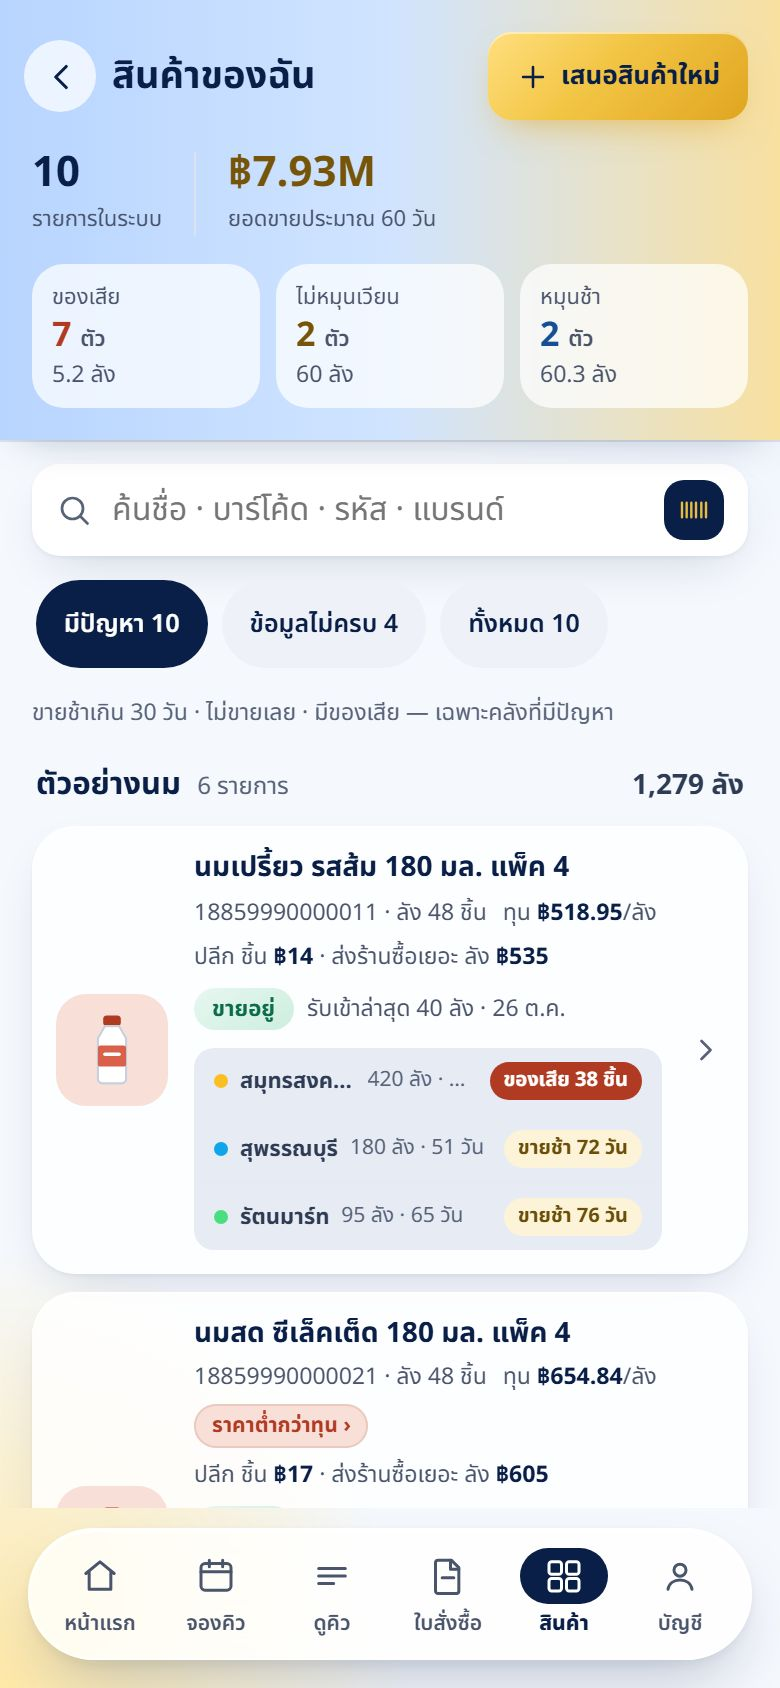
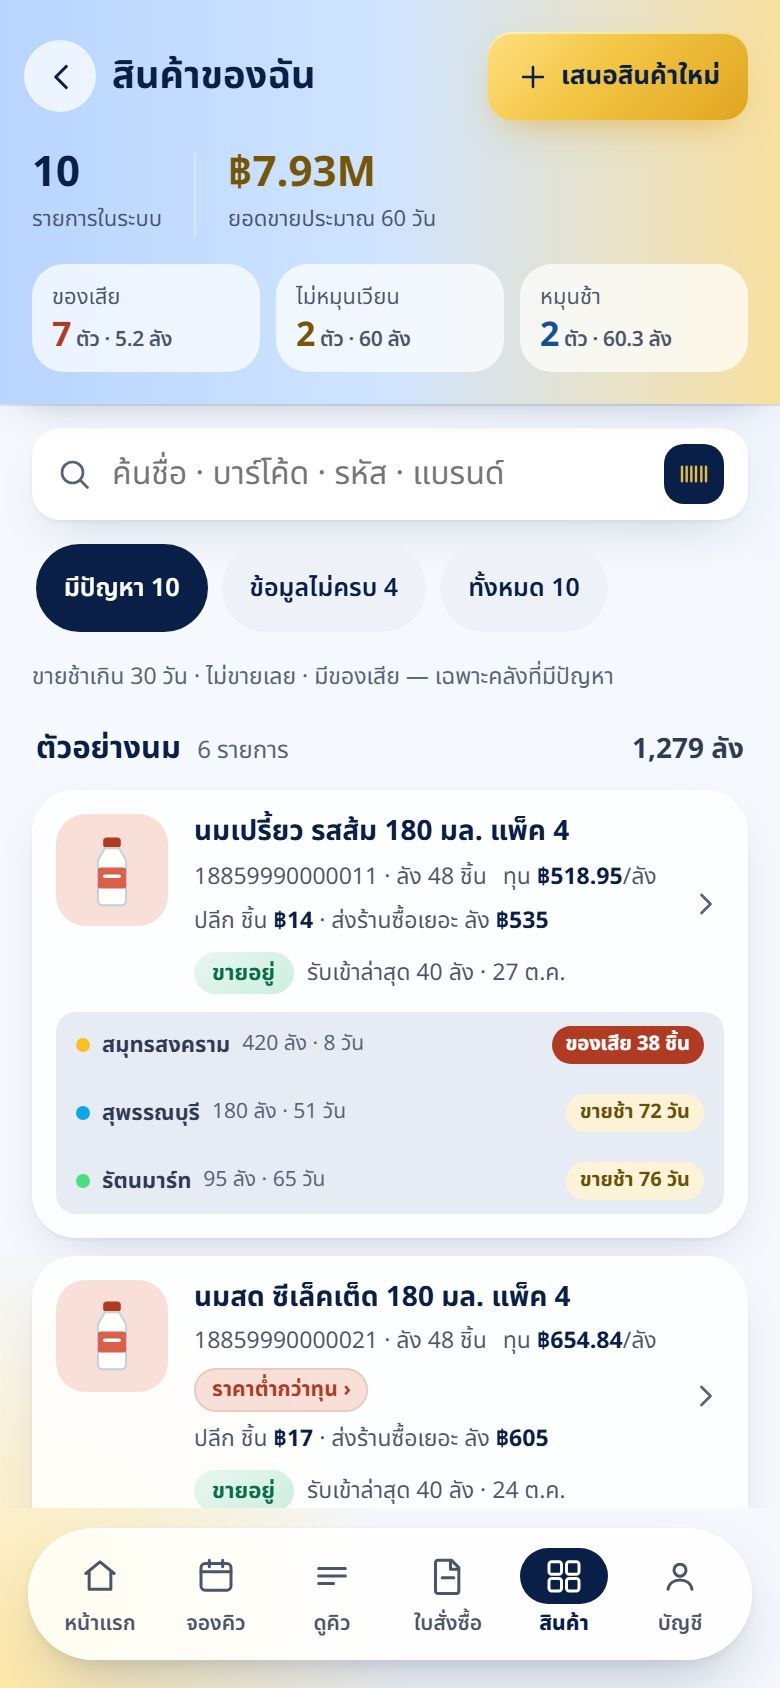
supplylink-guide v1.5.0: บทใหม่ ซัพใหม่เปิดบัญชี + แบบฝึกหัด · รูปบาร์โค้ดถ่ายจากกล้อง/ส่งภายหลัง · การ์ดสินค้าแบบใหม่

Changed region(s): [[0.0, 0.1848, 1.0, 0.8934], [0.8, 0.4313, 0.9538, 0.4929], [0.0615, 0.8626, 0.2154, 0.8934]]

diff --git a/supplylink-guide.html b/supplylink-guide.html
@@ -3,7 +3,7 @@
 <head>
 <meta charset="utf-8">
 <meta name="viewport" content="width=device-width,initial-scale=1,viewport-fit=cover">
-<title>ฝึกใช้ SupplyLink v1.4.5</title>
+<title>ฝึกใช้ SupplyLink v1.5.0</title>
 <link rel="preconnect" href="https://fonts.googleapis.com">
 <link href="https://fonts.googleapis.com/css2?family=Noto+Sans+Thai:wght@400;500;600;700&display=swap" rel="stylesheet">
 <style>
@@ -138,8 +138,8 @@ button{font:inherit;cursor:pointer}
 
 <script>
 (function () {
-  var VER = 'v1.4.5', APP = 'https://liff.line.me/2011693023-xbdsN1K7';
-  var IMG = {"h0":"supplylink-guide/h0.jpg","hinc":"supplylink-guide/hinc.jpg","hdef":"supplylink-guide/hdef.jpg","hpo":"supplylink-guide/hpo.jpg","s2":"supplylink-guide/s2.jpg","s4":"supplylink-guide/s4.jpg","s5":"supplylink-guide/s5.jpg","s6":"supplylink-guide/s6.jpg","s7":"supplylink-guide/s7.jpg","s9":"supplylink-guide/s9.jpg","s10":"supplylink-guide/s10.jpg","s11":"supplylink-guide/s11.jpg","z1":"supplylink-guide/z1.jpg","zm":"supplylink-guide/zm.jpg","zt":"supplylink-guide/zt.jpg","zs":"supplylink-guide/zs.jpg","zi":"supplylink-guide/zi.jpg","q1":"supplylink-guide/q1.jpg","q2":"supplylink-guide/q2.jpg","q3":"supplylink-guide/q3.jpg","q4":"supplylink-guide/q4.jpg","q5":"supplylink-guide/q5.jpg","q6":"supplylink-guide/q6.jpg","q7":"supplylink-guide/q7.jpg","q8":"supplylink-guide/q8.jpg","x1":"supplylink-guide/x1.jpg","x2":"supplylink-guide/x2.jpg","x3":"supplylink-guide/x3.jpg","x4":"supplylink-guide/x4.jpg","x5":"supplylink-guide/x5.jpg","x6":"supplylink-guide/x6.jpg","x7":"supplylink-guide/x7.jpg","a2":"supplylink-guide/a2.jpg","a3":"supplylink-guide/a3.jpg","a5":"supplylink-guide/a5.jpg","d2":"supplylink-guide/d2.jpg","a4":"supplylink-guide/a4.jpg","d3":"supplylink-guide/d3.jpg","d4":"supplylink-guide/d4.jpg","p1":"supplylink-guide/p1.jpg","p1b":"supplylink-guide/p1b.jpg","b2":"supplylink-guide/b2.jpg","b3":"supplylink-guide/b3.jpg","p5":"supplylink-guide/p5.jpg","c2":"supplylink-guide/c2.jpg","c3":"supplylink-guide/c3.jpg","k1":"supplylink-guide/k1.jpg","k2":"supplylink-guide/k2.jpg","k3":"supplylink-guide/k3.jpg","k4":"supplylink-guide/k4.jpg","k5":"supplylink-guide/k5.jpg","k6":"supplylink-guide/k6.jpg","k7":"supplylink-guide/k7.jpg","k9":"supplylink-guide/k9.jpg","k10":"supplylink-guide/k10.jpg","k11":"supplylink-guide/k11.jpg","n1":"supplylink-guide/n1.jpg","n2":"supplylink-guide/n2.jpg","n3":"supplylink-guide/n3.jpg","n4":"supplylink-guide/n4.jpg","n5":"supplylink-guide/n5.jpg","n6":"supplylink-guide/n6.jpg","n7":"supplylink-guide/n7.jpg","n8":"supplylink-guide/n8.jpg","n9":"supplylink-guide/n9.jpg","m1":"supplylink-guide/m1.jpg","m2":"supplylink-guide/m2.jpg","m3":"supplylink-guide/m3.jpg","m4":"supplylink-guide/m4.jpg","m5":"supplylink-guide/m5.jpg","f1":"supplylink-guide/f1.jpg","f2":"supplylink-guide/f2.jpg","f3":"supplylink-guide/f3.jpg","f4":"supplylink-guide/f4.jpg"};                                       /* แทนด้วยรูปตอน build */
+  var VER = 'v1.5.0', APP = 'https://liff.line.me/2011693023-xbdsN1K7';
+  var IMG = {"h0":"supplylink-guide/h0.jpg","hinc":"supplylink-guide/hinc.jpg","hdef":"supplylink-guide/hdef.jpg","hpo":"supplylink-guide/hpo.jpg","s2":"supplylink-guide/s2.jpg","s4":"supplylink-guide/s4.jpg","s5":"supplylink-guide/s5.jpg","s6":"supplylink-guide/s6.jpg","s7":"supplylink-guide/s7.jpg","s9":"supplylink-guide/s9.jpg","s10":"supplylink-guide/s10.jpg","s11":"supplylink-guide/s11.jpg","z1":"supplylink-guide/z1.jpg","zm":"supplylink-guide/zm.jpg","zt":"supplylink-guide/zt.jpg","zs":"supplylink-guide/zs.jpg","zi":"supplylink-guide/zi.jpg","q1":"supplylink-guide/q1.jpg","q2":"supplylink-guide/q2.jpg","q3":"supplylink-guide/q3.jpg","q4":"supplylink-guide/q4.jpg","q5":"supplylink-guide/q5.jpg","q6":"supplylink-guide/q6.jpg","q7":"supplylink-guide/q7.jpg","q8":"supplylink-guide/q8.jpg","x1":"supplylink-guide/x1.jpg","x2":"supplylink-guide/x2.jpg","x3":"supplylink-guide/x3.jpg","x4":"supplylink-guide/x4.jpg","x5":"supplylink-guide/x5.jpg","x6":"supplylink-guide/x6.jpg","x7":"supplylink-guide/x7.jpg","a2":"supplylink-guide/a2.jpg","a3":"supplylink-guide/a3.jpg","a5":"supplylink-guide/a5.jpg","d2":"supplylink-guide/d2.jpg","a4":"supplylink-guide/a4.jpg","d3":"supplylink-guide/d3.jpg","d4":"supplylink-guide/d4.jpg","p1":"supplylink-guide/p1.jpg","p1b":"supplylink-guide/p1b.jpg","b2":"supplylink-guide/b2.jpg","b3":"supplylink-guide/b3.jpg","p5":"supplylink-guide/p5.jpg","c2":"supplylink-guide/c2.jpg","c3":"supplylink-guide/c3.jpg","k1":"supplylink-guide/k1.jpg","k2":"supplylink-guide/k2.jpg","k3":"supplylink-guide/k3.jpg","k4":"supplylink-guide/k4.jpg","k5":"supplylink-guide/k5.jpg","k6":"supplylink-guide/k6.jpg","k7":"supplylink-guide/k7.jpg","k9":"supplylink-guide/k9.jpg","k10":"supplylink-guide/k10.jpg","k11":"supplylink-guide/k11.jpg","n1":"supplylink-guide/n1.jpg","n2":"supplylink-guide/n2.jpg","n3":"supplylink-guide/n3.jpg","n4":"supplylink-guide/n4.jpg","n5":"supplylink-guide/n5.jpg","n6":"supplylink-guide/n6.jpg","n7":"supplylink-guide/n7.jpg","n8":"supplylink-guide/n8.jpg","n9":"supplylink-guide/n9.jpg","g1":"supplylink-guide/g1.jpg","g2":"supplylink-guide/g2.jpg","g3":"supplylink-guide/g3.jpg","g4":"supplylink-guide/g4.jpg","m1":"supplylink-guide/m1.jpg","m2":"supplylink-guide/m2.jpg","m3":"supplylink-guide/m3.jpg","m4":"supplylink-guide/m4.jpg","m5":"supplylink-guide/m5.jpg","f1":"supplylink-guide/f1.jpg","f2":"supplylink-guide/f2.jpg","f3":"supplylink-guide/f3.jpg","f4":"supplylink-guide/f4.jpg"};                                       /* แทนด้วยรูปตอน build */
   var HAND = '<svg class="hand" viewBox="0 0 48 48" aria-hidden="true"><path d="M19 6c2 0 3.5 1.6 3.5 3.6V22l1-.1V18c0-2 1.6-3.4 3.4-3.4S30.3 16 30.3 18v4.4l1-.1v-2.6c0-1.9 1.5-3.3 3.3-3.3s3.3 1.5 3.3 3.3v3.6l.8-.1c1.8 0 3.3 1.5 3.3 3.3V34c0 6.6-5.4 12-12 12h-3.4c-3.8 0-7.4-1.8-9.6-4.9L8.5 30.6c-1-1.4-.7-3.4.7-4.4 1.4-1 3.3-.8 4.4.5l2 2.4V9.6C15.6 7.6 17.1 6 19 6z" fill="#fff" stroke="#0A1F47" stroke-width="2.4" stroke-linejoin="round"/></svg>';
   var FLOWCARD = function () {                              /* ส่งแล้วเกิดอะไรขึ้น: ซัพตอบ → จัดซื้อยืนยัน → เปิด PO จริง */
     var box = function (n, h, d, tone) { return '<div style="display:flex;gap:3cqw;align-items:flex-start;background:' + (tone || '#fff') + ';border-radius:4cqw;padding:3.6cqw 4cqw">' +
@@ -159,6 +159,15 @@ button{font:inherit;cursor:pointer}
   };
   /* ตำแหน่ง (x,y,w,h) = พิกัดบนจอมือถือกว้าง 390 จากหน้าแอปจริง */
   var LESSONS = [
+    { k:'open', t:'ซัพใหม่ เปิดบัญชี + เข้าใช้', g:'เปิดบัญชี (ซัพใหม่)', s:'ครั้งแรกที่เปิดแอป', n:7, steps:[
+      { img:'g1', r:[37, 192, 316, 66], h:'เปิดแอปครั้งแรก', d:'ยังไม่มีรหัสคู่ค้า แอปขึ้นฟอร์มเปิดบัญชีให้เอง · ใส่ชื่อบริษัทตามหนังสือรับรอง' },
+      { img:'g1', r:[37, 342, 316, 66], h:'เบอร์โทร', d:'ตัวเลขล้วน ขึ้นต้น 0 ไม่ต้องมีขีดหรือเว้นวรรค (พิมพ์มาแอปตัดให้เอง)', fx:'type', fxt:'0897654321' },
+      { img:'g2', r:[176, 503, 164, 44], h:'ใช่บริษัทของคุณไหม', d:'เบอร์ตรงกับบริษัทในระบบรัตน แอปถามให้ยืนยัน แตะ "ใช่ บริษัทนี้" ชื่อบริษัทเติมให้' },
+      { img:'g3', r:[285, 469, 56, 44], h:'แนบเอกสาร 3 อย่าง', d:'ภ.พ.20 · หนังสือรับรองบริษัท · หน้าบัญชีธนาคาร ถ่ายรูปหรือเลือก PDF' },
+      { img:'g3', r:[37, 601, 316, 44], h:'รับทราบนโยบาย', d:'ติ๊กครั้งเดียว อนุมัติแล้วเข้าแอปได้เลย ไม่ต้องกดซ้ำ' },
+      { img:'g3', r:[24, 698, 342, 52], h:'ส่งคำขอเปิดบัญชี', d:'ชื่อ LINE และรหัส LINE แอปเก็บให้เอง ไม่ต้องกรอก' },
+      { img:'g4', r:[24, 529, 342, 52], h:'รอจัดซื้ออนุมัติ', d:'อนุมัติแล้วได้ข้อความใน LINE ทันที · กดตรวจสอบอีกครั้ง หรือเปิดแอปใหม่ ก็เข้าได้เลย' }
+    ], end:'ไม่ผ่าน = ได้เหตุผลใน LINE แก้แล้วส่งคำขอใหม่ในแอป · ห้ามส่ง LINE ID ให้จัดซื้อพิมพ์เอง (เข้าไม่ได้)' },
     { k:'draft', t:'ใบร่างสั่งซื้อ ก่อนเปิด PO', g:'ใบร่างสั่งซื้อ', s:'ราคา โปร ขาดทุน', n:11, steps:[
       { html:function () { return LINECARD('ใบร่างสั่งซื้อ รอคุณตรวจ', 'ใบร่าง DR6911-012', [['บริษัท', 'บริษัท ตัวอย่าง จำกัด'], ['ส่งที่', 'คลังสุพรรณบุรี'], ['วันส่งที่ขอ', 'ให้คุณเสนอ'], ['สินค้า', '2 รายการ'], ['ช่วยตรวจ', 'จำนวนที่ส่งได้ · ราคา · ของแถม ก่อนเปิด PO']], ['ยอดตามแผน · ก่อน VAT', '฿49,840.00'], 'เปิดตรวจในแอป'); }, el:'lbtn',
         h:'ได้การ์ด LINE', d:'ฝ่ายจัดซื้อส่งใบร่างมาให้ตรวจ แตะ "เปิดตรวจในแอป"' },
@@ -246,7 +255,7 @@ button{font:inherit;cursor:pointer}
       { img:'n2', r:[30, 212, 330, 105], h:'ใส่รูปสินค้า 3 รูป', d:'ด้านหน้า ด้านข้าง และฉลาก ถ่ายจากมือถือได้เลย' },
       { img:'n3', r:[30, 349, 330, 44], h:'ชื่อสินค้า แบรนด์ ขนาด', d:'ใส่ชื่อให้ครบ เช่น นมเปรี้ยว รสบลูเบอร์รี่ 180 มล.', fx:'type', fxt:'นมเปรี้ยว 180 มล.' },
       { img:'n4', r:[274, 381, 86, 30], h:'บาร์โค้ดทุกหน่วย', d:'ใช้บาร์โค้ดจากสินค้าจริง ชิ้น · แพ็ค · ลัง กดสแกนที่ตัวสินค้าได้เลย ไม่ต้องพิมพ์เอง' },
-      { img:'n8', r:[30, 343, 330, 105], h:'รูปบาร์โค้ดจากสินค้าจริง', d:'ถ่ายตัวสินค้าให้เห็นบาร์โค้ดชัด ชิ้น · แพ็ค · ลัง จัดซื้อใช้ตรวจว่าเลขตรงกับที่กรอก' },
+      { img:'n8', r:[30, 326, 330, 139], h:'รูปบาร์โค้ดจากสินค้าจริง', d:'เปิดกล้องถ่ายตัวสินค้าจริงให้เห็นบาร์โค้ดชัด ชิ้น · แพ็ค · ลัง (ใช้รูปเก่าในเครื่องไม่ได้) · ยังถ่ายไม่ได้ กด "ส่งภายหลัง"' },
       { img:'n5', r:[30, 374, 160, 44], h:'ราคาทุนและราคาแนะนำ', d:'ราคาทุนต่อลัง (รวม VAT) และราคาแนะนำขายต่อชิ้น', fx:'type', fxt:'485.00' },
       { img:'n9', r:[30, 363, 330, 66], h:'เงื่อนไขการเคลม', d:'รับเคลมของหมดอายุ / แตกเสียหายไหม แล้วพิมพ์ว่าเคลมแบบไหน เช่น แจ้งภายในกี่วัน เปลี่ยนสินค้าหรือออก CN' },
       { img:'n6', r:[31, 410, 328, 126], h:'เซ็นชื่อ', d:'ใส่ชื่อ-นามสกุล แล้วเซ็นในกรอบ', fx:'sig' },
@@ -260,6 +269,17 @@ button{font:inherit;cursor:pointer}
     traps:Object.keys(NAV).filter(function (k) { return k !== target; }).map(function (k) { return { r:NAV[k], why:NAVWHY[k] }; }) }; }
   var TR = { rp:[98, 387, 75, 36], all:[18, 387, 73, 36], send:[272, 776, 96, 46], sig:[31, 510, 328, 126], ld:[30, 126, 78, 44], by:[114, 126, 78, 44], ac:[198, 126, 78, 44], df:[282, 126, 78, 44] };
   var QUIZ = {
+    open:[
+      { q:'จัดซื้อขอ LINE ID ของคุณไปใส่เอง จะเข้าแอปได้ไหม?', opts:[
+        { t:'ไม่ได้ ต้องเปิดแอปแล้วส่งคำขอเปิดบัญชีเอง', ok:1, why:'แอปเก็บรหัส LINE ที่ถูกให้เองตอนคุณเปิดแอป · LINE ID คนละตัวกับรหัสที่ระบบใช้' },
+        { t:'ได้ ส่ง LINE ID ให้จัดซื้อพอ', why:'พิมพ์ LINE ID เองแล้วเข้าไม่ได้' },
+        { t:'ต้องลงทะเบียนลิงก์อื่นก่อน', why:'ไม่ต้อง เปิดแอปแล้วส่งคำขอในหน้าเดียวจบ' }] },
+      { img:'g2', r:[176, 503, 164, 44], q:'แอปถามว่าเบอร์นี้เป็นบริษัทของคุณไหม และใช่ แตะตรงไหน', ok:'"ใช่ บริษัทนี้" ชื่อบริษัทเติมให้ จัดซื้ออนุมัติได้เร็วขึ้น', hint:'ปุ่มทองในกล่อง',
+        traps:[{ r:[50, 503, 116, 44], why:'"ไม่ใช่" = บริษัทที่ขึ้นไม่ใช่ของคุณ' }] },
+      { q:'กรอกเบอร์แบบไหนถูก?', opts:[
+        { t:'0897654321', ok:1, why:'ตัวเลขล้วน ขึ้นต้น 0' },
+        { t:'897654321', why:'ต้องขึ้นต้นด้วย 0' },
+        { t:'089-765-4321 (คุณสมหญิง)', why:'ไม่ต้องมีขีด ชื่อ หรือเว้นวรรค (แอปตัดขีดให้ แต่ชื่อใส่ช่องผู้ติดต่อ)' }] }],
     draft:[
       { img:'z1', r:[180, 387, 71, 36], q:'ใบร่างนี้มีรายการที่รัตนขายแล้วขาดทุน แตะเพื่อดูเฉพาะรายการนั้น', ok:'ชิป "ขาดทุน" กรองเฉพาะรายการที่ต้องลดทุนหรือใส่ราคาแนะนำ', hint:'ดูชิปสีแดงในแถวตัวกรอง',
         traps:[{ r:TR.rp, why:'"ราคาผิด" = ราคาในใบไม่ตรงทุนล่าสุด ยังไม่ใช่เรื่องขาดทุน' }, { r:TR.all, why:'"ทั้งหมด" โชว์ทุกรายการ ยังไม่ได้กรอง' }, { r:TR.send, why:'ยังส่งไม่ได้ ต้องแก้รายการขาดทุนให้ครบก่อน' }] },
